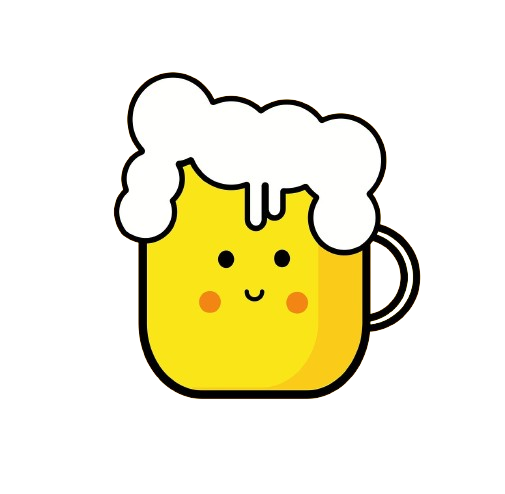
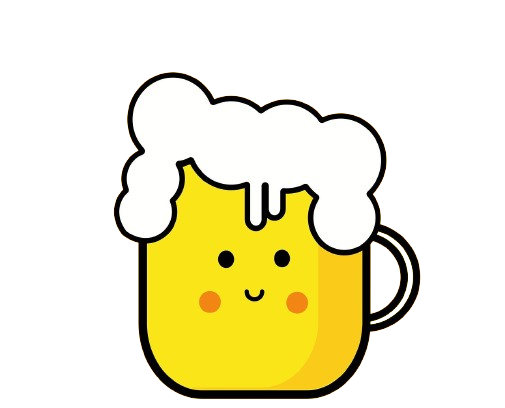
added final

Changed region(s): [[0.2079, 0.1471, 0.8317, 1.0], [0.3861, 0.5882, 0.4752, 0.6765], [0.4752, 0.7059, 0.5347, 0.7353]]

diff --git a/code/menu.js b/code/menu.js
@@ -9,7 +9,7 @@ var customIcon = L.icon({
     iconUrl: '../public/beer.png',
     iconSize: [32, 32],
     iconAnchor: [16, 32],
-    popupAnchor: [0, -32]
+    popupAnchor: [0, -32] 
 });
 var mapIn = false;
 
@@ -37,7 +37,7 @@ async function search () {
     }
     let place = document.getElementById("searchbar").value;
     console.log(place);
-    let response = await fetch('https://api.openbrewerydb.org/v1/breweries/search?query=' + place);
+    let response = await fetch('https://api.openbrewerydb.org/v1/breweries/search?query=' + place + "&per_page=51");
     let data = await response.json();
 
     map.eachLayer(function(layer) {
@@ -49,25 +49,21 @@ async function search () {
     data.forEach(element => {
         console.log("Latitude:", element.latitude, "Longitude:", element.longitude);
         if (element.latitude && element.longitude) {
-            let marker = L.marker([element.latitude, element.longitude], {icon: customIcon}).addTo(map);
-            marker.bindPopup(`<b>${element.name}</b><br>${element.latitude}  ${element.longitude}`).openPopup();
+            let customData = {
+                id: element.id
+            };
+            let marker = L.marker([element.latitude, element.longitude], {icon: customIcon, customData: customData}).addTo(map).on('click', onClick);
         }
     });
 }
 
+// Async fetches and sends and runs showpopup function
 async function onClick(e) {
-    let stringF = "";
     var customData = this.options.customData
     console.log(customData.id)
     let response = await fetch("https://api.openbrewerydb.org/v1/breweries/" + customData.id);
     let data = await response.json();
-    for (const key in data) {
-        if (data.hasOwnProperty(key) && data[key] !== null && data[key] != data.id) {
-            stringF += `${key}: ${data[key]}\n`;
-        }
-    }
-    // alert(stringF)
-    showPopup()
+    showPopup(data)
 }
 
 // Function to display all breweries on first page and only 51 on the map
@@ -103,7 +99,8 @@ async function show_me(){
     }
 }
 
-function showPopup() {
+// Function to display detailed brewery information in a popup
+function showPopup(data) {
     $('#popup-overlay').css({
         opacity: 0,
         transform: 'scale(1)'
@@ -111,8 +108,28 @@ function showPopup() {
         opacity: 1,
         scale: 1
     }, 500);
+    let stringF = "</br>";
+    document.getElementById("name").innerText = data.name;
+    
+    for (const key in data) {
+        if (data.hasOwnProperty(key) && data[key] !== null && data[key] != data.id && data[key] != data.name) {
+            if (data[key] == data.website_url || data[key] == data.phone) {
+                if (data[key] == data.phone) {
+                    const formattedNumber = formatPhoneNumber(data[key]);
+                    stringF += `<p><strong>${key}</strong>:</p> <p>${formattedNumber}</p></br>`;
+                } else {
+                    stringF += `<p><strong>${key}</strong>:</p> <a href="${data[key]}">${data[key]}</a></br>`;
+                }
+            } else {
+                stringF += `<p><strong>${key}</strong>:</p> <p>${data[key]}</p></br>`;
+            }
+        }
+    }
+
+    document.getElementById("text").innerHTML = stringF;
 }
 
+// jQuery to handle popup overlay visibility mainly hiding
 $(document).ready(function() {
     $('#popup-overlay').hide();
 
@@ -123,3 +140,15 @@ $(document).ready(function() {
         }, 500);;
     });
 });
+
+// Function to format phone numbers to USA standars
+function formatPhoneNumber(number) {
+    if(!number) return number;
+    const phoneNumber = number.replace(/[^\d]/g, "");
+    const phoneNumberLength = phoneNumber.length;
+    if (phoneNumberLength < 4) return phoneNumber;
+    if (phoneNumber < 7) {
+        return `(${phoneNumber.slice(0, 3)}) ${phoneNumber.slice(3)}`;
+    }
+    return `(${phoneNumber.slice(0, 3)}) ${phoneNumber.slice(3, 6, )}-${phoneNumber.slice(6, 9)}`;
+}

diff --git a/index.html b/index.html
@@ -2,6 +2,7 @@
 <html lang="en">
 <head>
     <meta charset="UTF-8">
+    <link rel="icon" type="image/png" href="/public/beer-5377737_1280-removebg-preview.png">
     <meta name="viewport" content="width=device-width, initial-scale=1.0">
     <link rel="stylesheet" href="styles/styleMain.css">
     <link rel="stylesheet" href="https://cdnjs.cloudflare.com/ajax/libs/font-awesome/6.5.2/css/all.min.css"  />
@@ -12,16 +13,17 @@
     integrity="sha256-20nQCchB9co0qIjJZRGuk2/Z9VM+kNiyxNV1lvTlZBo="
     crossorigin=""></script>
     <script src="https://cdnjs.cloudflare.com/ajax/libs/jquery/3.7.1/jquery.min.js" integrity="sha512-v2CJ7UaYy4JwqLDIrZUI/4hqeoQieOmAZNXBeQyjo21dadnwR+8ZaIJVT8EE2iyI61OV8e6M8PP2/4hpQINQ/g==" crossorigin="anonymous" referrerpolicy="no-referrer"></script>
-    
+    <script src="https://cdnjs.cloudflare.com/ajax/libs/libphonenumber-js/1.11.1/libphonenumber-js.min.js" integrity="sha512-yS0AHkSS09VCH2wqNLDv7qZ7RaQQhL2OfCbeTgTs2PSrSPhXKm7Qvwe3I1h/cCQtg0ElsiHI2ysYvNJXfgSHqQ==" crossorigin="anonymous" referrerpolicy="no-referrer"></script>
+
     <title>My API - main</title>
 </head>
 <body>
     <div class="popup-overlay" id="popup-overlay">
         <div class="popup">
-            <img src="https://via.placeholder.com/400x200" alt="Popup Image">
+            <img src="/public/beer-5377737_1280-removebg-preview.png" alt="Popup Image">
             <div class="content">
-                <h2>Popup Title</h2>
-                <p>This is the popup content. It includes some text describing the popup.</p>
+                <h2 id="name">Error</h2>
+                <p id="text">Somthing went wrong</p>
             </div>
             <button class="close-btn" id="close-btn">Close</button>
         </div>

diff --git a/styles/styleMain.css b/styles/styleMain.css
@@ -214,7 +214,23 @@ footer #info1 ul, #info2 ul{
     justify-content: center;
     visibility: visible;
     z-index: 2;
+    overflow-y: auto;
 }
+
+.popup-overlay::-webkit-scrollbar {
+    width: 12px;
+}
+
+.popup-overlay::-webkit-scrollbar-track {
+    background: transparent;
+    border-radius: 10px;
+}
+
+.popup-overlay::-webkit-scrollbar-thumb {
+    border-radius: 10px;
+    background: transparent;
+}
+
 .popup {
     background: #fff;
     padding: 20px;
@@ -223,10 +239,12 @@ footer #info1 ul, #info2 ul{
     text-align: center;
     max-width: 400px;
     width: 90%;
+    overflow: hidden;
 }
 .popup img {
     max-width: 100%;
     border-radius: 8px 8px 0 0;
+    padding-top: 28rem;
 }
 .popup .content {
     padding: 20px 0;
@@ -239,6 +257,10 @@ footer #info1 ul, #info2 ul{
     border-radius: 5px;
     cursor: pointer;
     font-size: 16px;
+}
+
+#text {
+    padding-top: 5px;
 }
 
 
